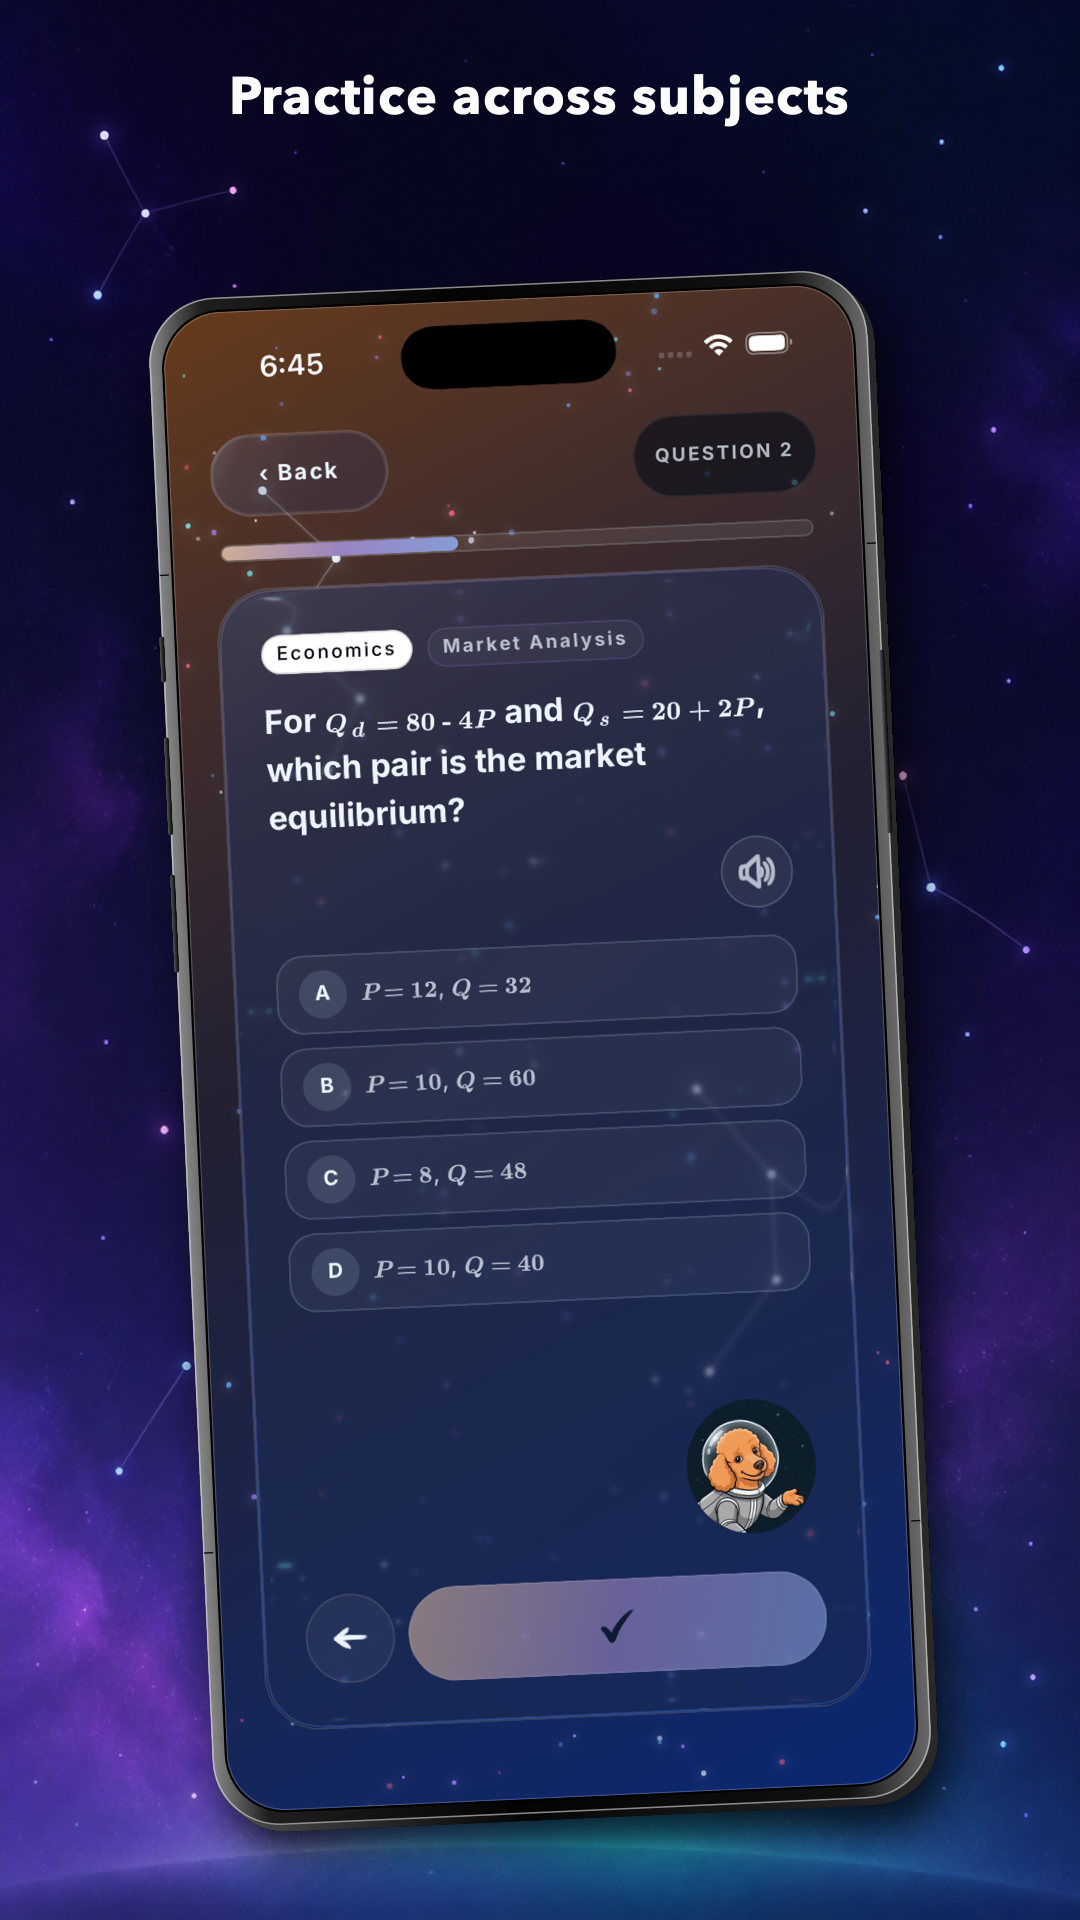
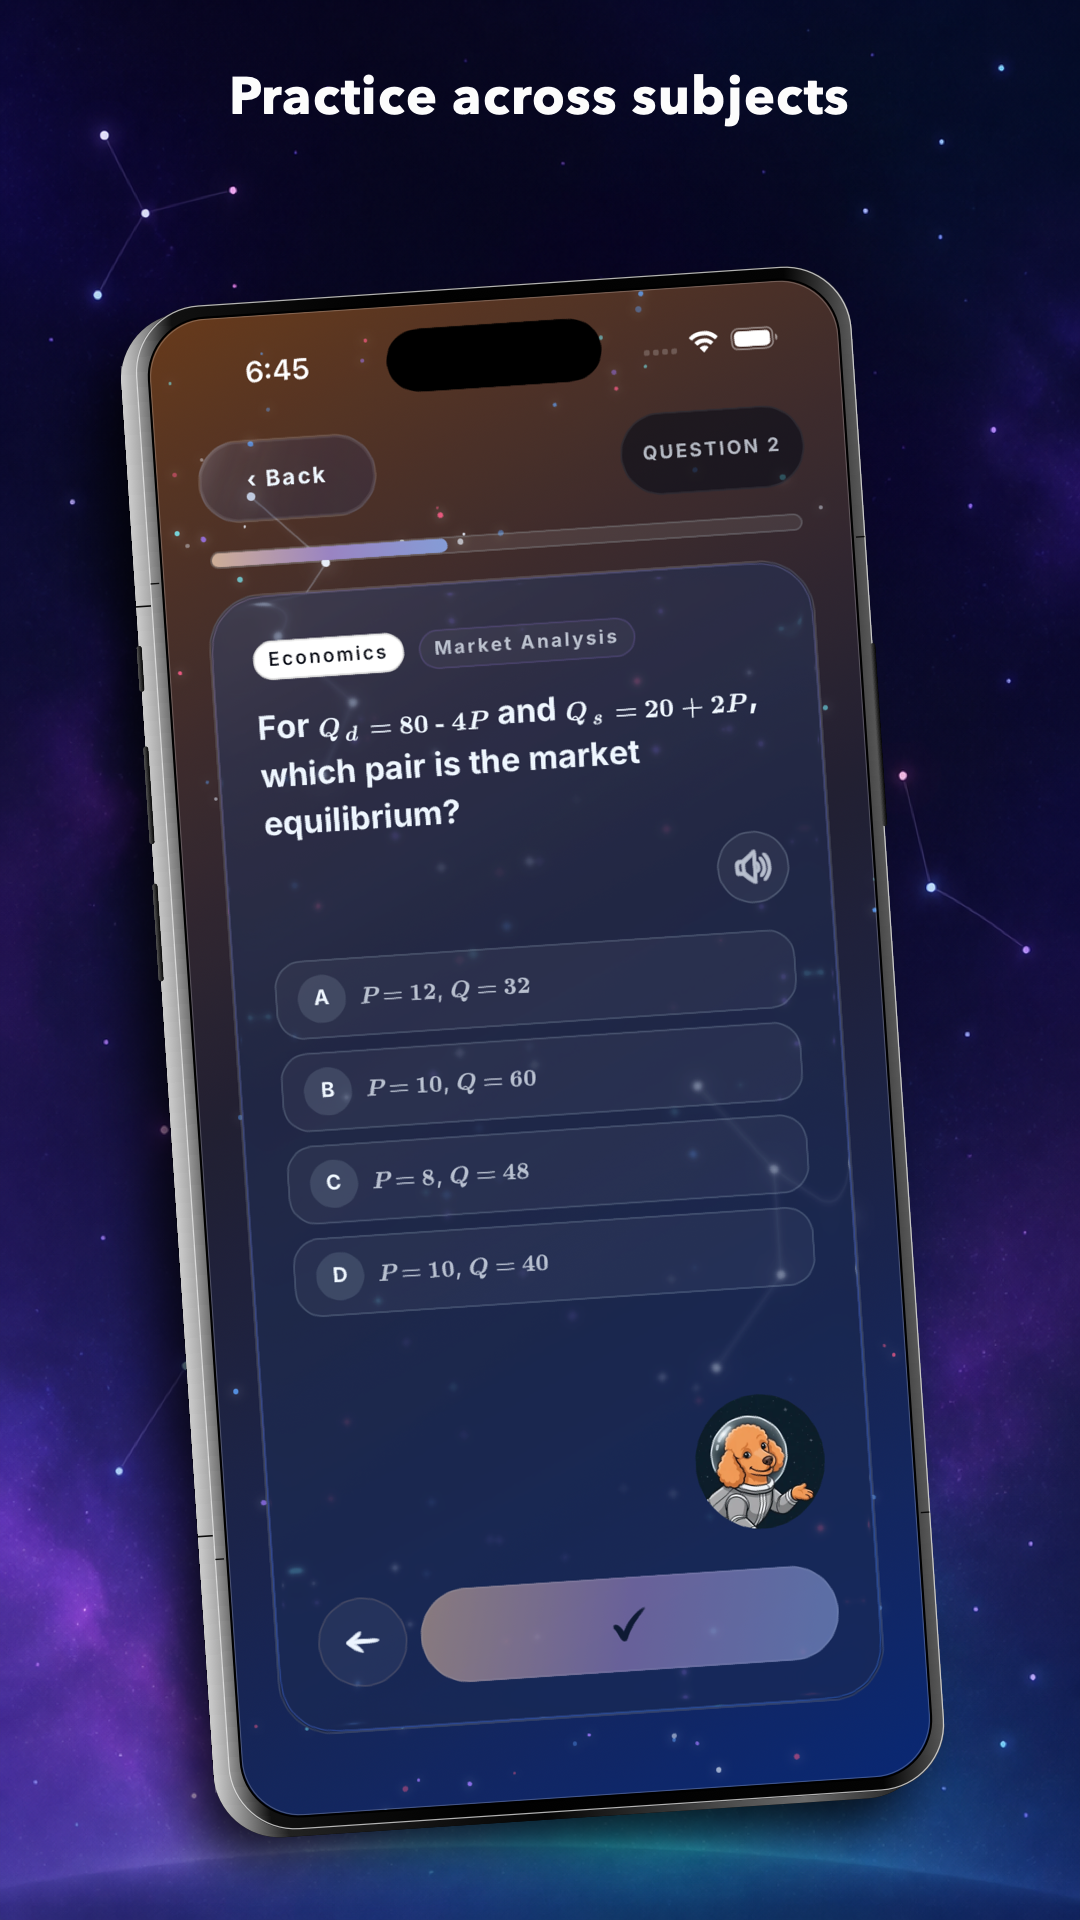
assets: rebuild store phones from flyer 36

diff --git a/scripts/render-store-graphics.swift b/scripts/render-store-graphics.swift
@@ -13,12 +13,12 @@ struct Shot {
 
 let sourceRoot = "\(root)/docs/store-assets/play-source-screenshots"
 let shots = [
-    Shot(source: "\(root)/mobile-app-assets/screenshots/applied/question-prompts/19-stats.png", name: "01-questions-from-your-material", caption: "Questions built from your material", rotation: -3.0),
-    Shot(source: "\(sourceRoot)/choice-set.png", name: "02-practice-across-subjects", caption: "Practice across subjects", rotation: 2.6),
-    Shot(source: "\(root)/mobile-app-assets/screenshots/applied/results/90-percent.png", name: "03-know-what-to-fix", caption: "Know what to fix", rotation: -2.5),
-    Shot(source: "\(sourceRoot)/problem-solver-reasoning.png", name: "04-see-every-step", caption: "See every step", rotation: 2.8),
-    Shot(source: "\(sourceRoot)/constellations.png", name: "05-your-subjects-mapped", caption: "Your subjects, mapped", rotation: -2.4),
-    Shot(source: "\(sourceRoot)/leaderboard.png", name: "06-progress-in-one-place", caption: "Progress in one place", rotation: 2.5),
+    Shot(source: "\(root)/mobile-app-assets/screenshots/applied/question-prompts/19-stats.png", name: "01-questions-from-your-material", caption: "Questions built from your material", rotation: -5.2),
+    Shot(source: "\(sourceRoot)/choice-set.png", name: "02-practice-across-subjects", caption: "Practice across subjects", rotation: 3.8),
+    Shot(source: "\(root)/mobile-app-assets/screenshots/applied/results/90-percent.png", name: "03-know-what-to-fix", caption: "Know what to fix", rotation: -3.6),
+    Shot(source: "\(sourceRoot)/problem-solver-reasoning.png", name: "04-see-every-step", caption: "See every step", rotation: 5.0),
+    Shot(source: "\(sourceRoot)/constellations.png", name: "05-your-subjects-mapped", caption: "Your subjects, mapped", rotation: -4.4),
+    Shot(source: "\(sourceRoot)/leaderboard.png", name: "06-progress-in-one-place", caption: "Progress in one place", rotation: 3.2),
 ]
 
 func load(_ path: String) -> NSImage {
@@ -88,13 +88,13 @@ func centeredText(_ text: String, y: CGFloat, width: CGFloat, size: CGFloat) {
 func drawFlyerPhone(_ screenshot: NSImage, screenRect: NSRect, rotation: CGFloat) {
     // Flyer treatment: a thin, glossy graphite iPhone shell with a restrained
     // silver lip. The display remains the dominant surface.
-    let bezel: CGFloat = max(8, screenRect.width * 0.021)
+    let bezel: CGFloat = max(8, screenRect.width * 0.020)
     let body = screenRect.insetBy(dx: -bezel, dy: -bezel)
     let bodyRadius = screenRect.width * 0.096
     let screenRadius = screenRect.width * 0.084
     let center = NSPoint(x: body.midX, y: body.midY)
-    let depth = max(5, screenRect.width * 0.010)
-    let depthX: CGFloat = rotation < 0 ? -depth : depth
+    let depth = max(10, screenRect.width * 0.022)
+    let depthX: CGFloat = rotation < 0 ? depth : -depth
 
     NSGraphicsContext.saveGraphicsState()
     let transform = NSAffineTransform()
@@ -105,11 +105,11 @@ func drawFlyerPhone(_ screenshot: NSImage, screenRect: NSRect, rotation: CGFloat
 
     let shadow = NSShadow()
     shadow.shadowColor = NSColor(calibratedWhite: 0, alpha: 0.78)
-    shadow.shadowBlurRadius = max(34, screenRect.width * 0.070)
-    shadow.shadowOffset = NSSize(width: depthX * 1.2, height: -screenRect.width * 0.035)
+    shadow.shadowBlurRadius = max(40, screenRect.width * 0.080)
+    shadow.shadowOffset = NSSize(width: depthX * 1.45, height: -screenRect.width * 0.045)
     shadow.set()
     NSColor.black.setFill()
-    NSBezierPath(roundedRect: body.offsetBy(dx: depthX, dy: -depth), xRadius: bodyRadius, yRadius: bodyRadius).fill()
+    NSBezierPath(roundedRect: body.offsetBy(dx: depthX, dy: -depth * 0.44), xRadius: bodyRadius, yRadius: bodyRadius).fill()
     NSGraphicsContext.restoreGraphicsState()
 
     NSGraphicsContext.saveGraphicsState()
@@ -121,26 +121,48 @@ func drawFlyerPhone(_ screenshot: NSImage, screenRect: NSRect, rotation: CGFloat
 
     // A shallow dark sidewall supplies the flyer-style physical depth without
     // turning the phone into a bright illustrated frame.
-    let backPlane = body.offsetBy(dx: depthX, dy: -depth)
+    let backPlane = body.offsetBy(dx: depthX, dy: -depth * 0.44)
     let backMetal = NSGradient(colorsAndLocations:
-        (NSColor(calibratedWhite: 0.24, alpha: 1), 0.0),
-        (NSColor(calibratedWhite: 0.025, alpha: 1), 0.42),
-        (NSColor(calibratedWhite: 0.12, alpha: 1), 1.0)
+        (NSColor(calibratedWhite: 0.76, alpha: 1), 0.0),
+        (NSColor(calibratedWhite: 0.10, alpha: 1), 0.10),
+        (NSColor(calibratedWhite: 0.025, alpha: 1), 0.46),
+        (NSColor(calibratedWhite: 0.34, alpha: 1), 0.82),
+        (NSColor(calibratedWhite: 0.055, alpha: 1), 1.0)
     )!
     backMetal.draw(in: NSBezierPath(roundedRect: backPlane, xRadius: bodyRadius, yRadius: bodyRadius), angle: 0)
 
+    let visibleSideX = depthX > 0 ? backPlane.maxX - 1.5 : backPlane.minX + 1.5
+    let sideHighlight = NSBezierPath()
+    sideHighlight.move(to: NSPoint(x: visibleSideX, y: backPlane.minY + bodyRadius * 0.74))
+    sideHighlight.line(to: NSPoint(x: visibleSideX, y: backPlane.maxY - bodyRadius * 0.74))
+    sideHighlight.lineWidth = max(1.1, screenRect.width * 0.0018)
+    NSColor(calibratedWhite: 0.72, alpha: 0.46).setStroke()
+    sideHighlight.stroke()
+
+    // Flyer 36 has visible breaks in the polished side band.
+    NSColor(calibratedWhite: 0.015, alpha: 0.95).setStroke()
+    for y in [backPlane.minY + backPlane.height * 0.20, backPlane.maxY - backPlane.height * 0.19] {
+        let bandBreak = NSBezierPath()
+        let frontBandX = depthX > 0 ? body.maxX : body.minX
+        let backBandX = depthX > 0 ? backPlane.maxX : backPlane.minX
+        bandBreak.move(to: NSPoint(x: frontBandX, y: y))
+        bandBreak.line(to: NSPoint(x: backBandX, y: y))
+        bandBreak.lineWidth = max(1.6, screenRect.width * 0.0023)
+        bandBreak.stroke()
+    }
+
     let chassis = NSGradient(colorsAndLocations:
-        (NSColor(calibratedWhite: 0.46, alpha: 1), 0.0),
-        (NSColor(calibratedWhite: 0.09, alpha: 1), 0.075),
-        (NSColor(calibratedWhite: 0.018, alpha: 1), 0.42),
-        (NSColor(calibratedWhite: 0.055, alpha: 1), 0.88),
-        (NSColor(calibratedWhite: 0.34, alpha: 1), 1.0)
+        (NSColor(calibratedWhite: 0.54, alpha: 1), 0.0),
+        (NSColor(calibratedWhite: 0.055, alpha: 1), 0.055),
+        (NSColor(calibratedWhite: 0.004, alpha: 1), 0.34),
+        (NSColor(calibratedWhite: 0.018, alpha: 1), 0.91),
+        (NSColor(calibratedWhite: 0.28, alpha: 1), 1.0)
     )!
     chassis.draw(in: NSBezierPath(roundedRect: body, xRadius: bodyRadius, yRadius: bodyRadius), angle: 0)
 
     let outerLip = NSBezierPath(roundedRect: body.insetBy(dx: 0.8, dy: 0.8), xRadius: bodyRadius, yRadius: bodyRadius)
-    outerLip.lineWidth = max(1.2, screenRect.width * 0.0022)
-    NSColor(calibratedWhite: 0.82, alpha: 0.62).setStroke()
+    outerLip.lineWidth = max(1.1, screenRect.width * 0.0018)
+    NSColor(calibratedWhite: 0.92, alpha: 0.74).setStroke()
     outerLip.stroke()
 
     // Fine antenna breaks and compact black controls match the flyer references.
@@ -158,14 +180,14 @@ func drawFlyerPhone(_ screenshot: NSImage, screenRect: NSRect, rotation: CGFloat
         rightBreak.stroke()
     }
 
-    let sideWidth = max(3.5, bezel * 0.34)
-    let leftX = body.minX - sideWidth * 0.48
+    let sideWidth = max(4, bezel * 0.38)
+    let leftX = (depthX < 0 ? backPlane.minX : body.minX) - sideWidth * 0.42
     let buttonGradient = NSGradient(starting: NSColor(calibratedWhite: 0.27, alpha: 1), ending: NSColor(calibratedWhite: 0.025, alpha: 1))!
     for button in [
         NSRect(x: leftX, y: body.maxY - body.height * 0.25, width: sideWidth, height: body.height * 0.030),
         NSRect(x: leftX, y: body.maxY - body.height * 0.35, width: sideWidth, height: body.height * 0.064),
         NSRect(x: leftX, y: body.maxY - body.height * 0.44, width: sideWidth, height: body.height * 0.064),
-        NSRect(x: body.maxX - sideWidth * 0.52, y: body.maxY - body.height * 0.37, width: sideWidth, height: body.height * 0.12),
+        NSRect(x: (depthX > 0 ? backPlane.maxX : body.maxX) - sideWidth * 0.52, y: body.maxY - body.height * 0.37, width: sideWidth, height: body.height * 0.12),
     ] {
         NSGraphicsContext.saveGraphicsState()
         let buttonShadow = NSShadow()

diff --git a/docs/store-assets/README.md b/docs/store-assets/README.md
@@ -6,9 +6,10 @@
 
 - Added shared native iPhone source captures and separate Google Play and iOS
   marketing exports.
-- Standardized the store graphics on the flyers' thin graphite phone treatment
-  with a near-flush display and restrained metallic edge, while keeping every
-  app interface as an untouched screenshot layer.
+- Standardized the store graphics specifically on flyer 36's black titanium
+  phone treatment: varied left/right three-quarter views, near-flush displays,
+  polished sidewalls, segmented bands, and restrained metallic edges. Every
+  app interface remains an untouched screenshot layer.
 
 ## Structure
 
